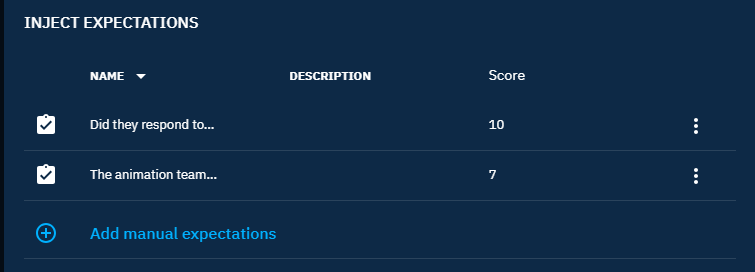
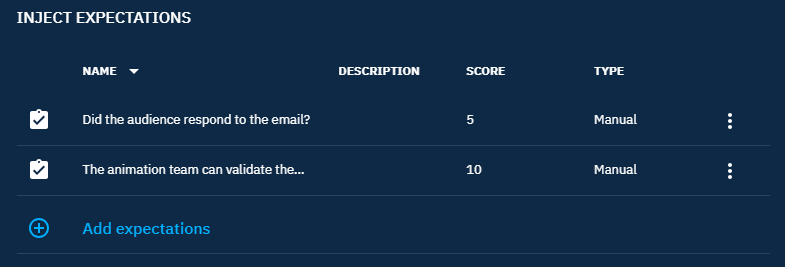
[docs] Expectations documentation

diff --git a/docs/usage/injects.md b/docs/usage/injects.md
@@ -24,12 +24,14 @@ directly played by the players and those simulated by the animation team.
 Email, SMS or Media Pressure type inject can have manual expectations.
 This allows to create expectations which will be validated once the inject has executed.
 
+![Add expectation manual](assets/add-expectation-manual.png)
 ![Expectation manual](assets/expectation-manual.png)
 
 ### Media pressure expectation
 
 This allows to create an expectation which will be validated once the audience concerned by the inject has read the article(s).
 
+![Add expectation media](assets/add-expectation-media.png)
 ![Expectation media](assets/expectation-media.png)
 
 ### Challenge expectation
@@ -41,3 +43,4 @@ An expectation is automatically created and it will be validated once the audien
 These expectations can be viewed and validated, in the case of manual expectations, in a dedicated view.
 
 ![Expectation validation](assets/expectation-validation.png)
+![Expectation validation manual](assets/expectation-validation-manual.png)
